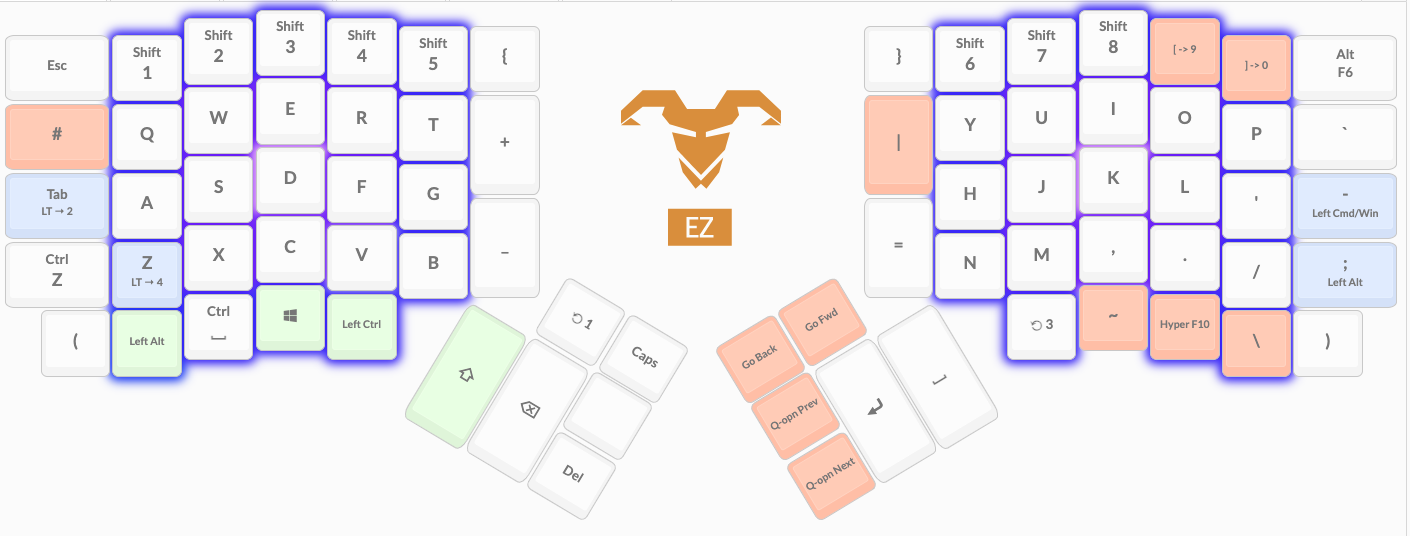
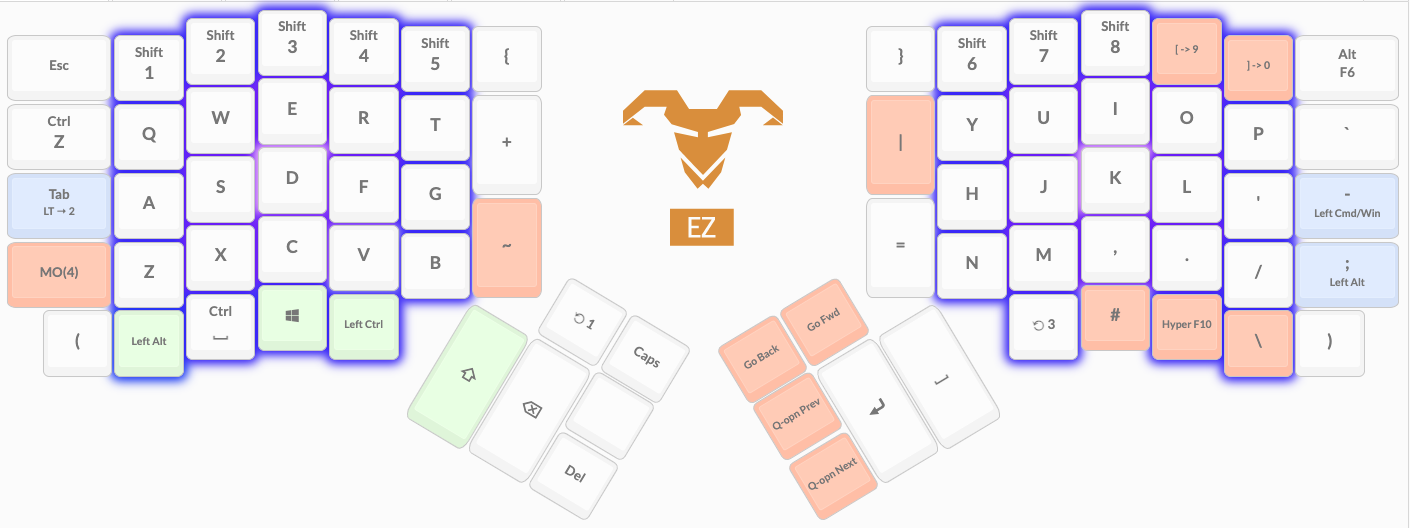
key move so Z isn't a layer switch

diff --git a/keyboards/ergodox_ez/keymaps/stoneman/keymap.c b/keyboards/ergodox_ez/keymaps/stoneman/keymap.c
@@ -45,6 +45,7 @@ enum custom_keycodes {
     EMOJI_WINK,
     EMOJI_WINKTNG,
     MACRO_CHZ,
+    MO_4,
     MUTE_DOTA_TOGGLE,
     VIM_QUIT,
     VIM_SAVE,
@@ -54,10 +55,10 @@ enum custom_keycodes {
 const uint16_t PROGMEM keymaps[][MATRIX_ROWS][MATRIX_COLS] = {
   [0] = LAYOUT_ergodox_pretty(
     KC_ESCAPE,      LSFT(KC_1),     LSFT(KC_2),     LSFT(KC_3),     LSFT(KC_4),     LSFT(KC_5),     KC_LCBR,                                        KC_RCBR,        LSFT(KC_6),     LSFT(KC_7),     LSFT(KC_8),     KC_LBRACKET,    KC_RBRACKET,    MUTE_DOTA_TOGGLE,
-    KC_LALT_HASH,   KC_Q,           KC_W,           KC_E,           KC_R,           KC_T,           KC_PLUS,                                        KC_NONUS_PIPE,  KC_Y,           KC_U,           KC_I,           KC_O,           KC_P,           KC_GRAVE,
+    LCTL(KC_Z),     KC_Q,           KC_W,           KC_E,           KC_R,           KC_T,           KC_PLUS,                                        KC_NONUS_PIPE,  KC_Y,           KC_U,           KC_I,           KC_O,           KC_P,           KC_GRAVE,
     LT(2,KC_TAB),   KC_A,           KC_S,           KC_D,           KC_F,           KC_G,                                                                           KC_H,           KC_J,           KC_K,           KC_L,           KC_QUOTE,       LGUI_T(KC_MINUS),
-    LCTL(KC_Z),     LT(4,KC_Z),     KC_X,           KC_C,           KC_V,           KC_B,           KC_UNDS,                                        KC_EQUAL,       KC_N,           KC_M,           KC_COMMA,       KC_DOT,         KC_SLASH,       LALT_T(KC_SCOLON),
-    KC_LPRN,        KC_LALT,        LCTL(KC_SPACE), KC_LGUI,        KC_LCTRL,                                                                                                       MO(3),          KC_NONUS_TILD,  KC_HYPER_F10,   KC_NONUS_BSLASH,KC_RPRN,
+    MO_4,           KC_Z,           KC_X,           KC_C,           KC_V,           KC_B,           KC_NONUS_TILD,                                  KC_EQUAL,       KC_N,           KC_M,           KC_COMMA,       KC_DOT,         KC_SLASH,       LALT_T(KC_SCOLON),
+    KC_LPRN,        KC_LALT,        LCTL(KC_SPACE), KC_LGUI,        KC_LCTRL,                                                                                                       MO(3),          KC_LALT_HASH,  KC_HYPER_F10,    KC_NONUS_BSLASH,KC_RPRN,
                                                                                                     MO(1),          KC_CAPSLOCK,    LALT(LGUI(LSFT(KC_LEFT))),LALT(LGUI(LSFT(KC_RIGHT))),
                                                                                                                     KC_TRANSPARENT, KC_F16,
                                                                                     KC_LSHIFT,      KC_BSPACE,      KC_DELETE,      KC_F17,         KC_ENTER,       KC_SPACE
@@ -96,7 +97,7 @@ const uint16_t PROGMEM keymaps[][MATRIX_ROWS][MATRIX_COLS] = {
     KC_TRANSPARENT, KC_TRANSPARENT, KC_TRANSPARENT, KC_TRANSPARENT, KC_TRANSPARENT, KC_TRANSPARENT, KC_TRANSPARENT,                                 KC_TRANSPARENT, KC_TRANSPARENT, KC_TRANSPARENT, KC_TRANSPARENT, KC_TRANSPARENT, KC_TRANSPARENT, KC_TRANSPARENT,
     KC_TRANSPARENT, KC_TRANSPARENT, KC_TRANSPARENT, KC_TRANSPARENT, KC_TRANSPARENT, KC_TRANSPARENT, KC_HOME,                                        KC_PGUP,        KC_TRANSPARENT, KC_TRANSPARENT, KC_UP,          KC_TRANSPARENT, KC_TRANSPARENT, KC_TRANSPARENT,
     KC_TRANSPARENT, KC_TRANSPARENT, KC_TRANSPARENT, ALT_SHIFT_GRV,  ALT_GRV,        KC_TRANSPARENT,                                                                 LGUI(KC_LEFT),  KC_LEFT,        KC_DOWN,        KC_RIGHT,       LGUI(KC_RIGHT), KC_TRANSPARENT,
-    KC_TRANSPARENT, KC_TRANSPARENT, MACRO_CHZ,      ALT_SHIFT_TAB,  ALT_TAB,        KC_TRANSPARENT, KC_END,                                         KC_PGDOWN,      KC_TRANSPARENT, KC_TRANSPARENT, KC_TRANSPARENT, KC_TRANSPARENT, KC_TRANSPARENT, KC_TRANSPARENT,
+    KC_TRANSPARENT, MACRO_CHZ,      KC_TRANSPARENT, ALT_SHIFT_TAB,  ALT_TAB,        KC_TRANSPARENT, KC_END,                                         KC_PGDOWN,      KC_TRANSPARENT, KC_TRANSPARENT, KC_TRANSPARENT, KC_TRANSPARENT, KC_TRANSPARENT, KC_TRANSPARENT,
     KC_TRANSPARENT, KC_TRANSPARENT, KC_TRANSPARENT, KC_TRANSPARENT, KC_TRANSPARENT,                                                                                                 KC_LALT,        KC_TRANSPARENT, KC_HYPER_F14,   KC_TRANSPARENT, KC_TRANSPARENT,
                                                                                                     KC_TRANSPARENT, KC_TRANSPARENT, KC_TRANSPARENT, KC_TRANSPARENT,
                                                                                                                     KC_TRANSPARENT, KC_TRANSPARENT,
@@ -287,6 +288,20 @@ bool process_macro_vim_chz(keyrecord_t *record) {
     return true;
 }
 
+bool process_mo_4(keyrecord_t *record) {
+    if (record->event.pressed) {
+        layer_on(4);
+    } else {
+        if (is_alt_tab_active || is_alt_grv_active) {
+            unregister_code(KC_LALT);
+            is_alt_tab_active = false;
+            is_alt_grv_active = false;
+        }
+        layer_off(4);
+    }
+    return true;
+}
+
 // modifiers
 
 bool process_win(keyrecord_t *record) {
@@ -349,17 +364,6 @@ bool process_alt_grv(keyrecord_t *record, bool withShift) {
         unregister_code(KC_GRAVE);
         if (withShift) {
             unregister_code(KC_LSFT);
-        }
-    }
-    return true;
-}
-
-bool process_magic_z(keyrecord_t *record) {
-    if (!record->event.pressed) {
-        if (is_alt_tab_active || is_alt_grv_active) {
-            unregister_code(KC_LALT);
-            is_alt_tab_active = false;
-            is_alt_grv_active = false;
         }
     }
     return true;
@@ -510,6 +514,8 @@ bool process_record_user(uint16_t keycode, keyrecord_t *record) {
             return process_macro_vim_sq(record);
         case MACRO_CHZ:
             return process_macro_vim_chz(record);
+        case MO_4:
+            return process_mo_4(record);
         // modifiers
         case KC_LGUI:
             return process_win(record);
@@ -542,8 +548,6 @@ bool process_record_user(uint16_t keycode, keyrecord_t *record) {
             return process_alt_grv(record, false);
         case ALT_SHIFT_GRV:
             return process_alt_grv(record, true);
-        case LT(4,KC_Z):
-            return process_magic_z(record);
         // emoji
         case EMOJI_ANGRY:
         case EMOJI_COOL:
@@ -650,13 +654,4 @@ layer_state_t layer_state_set_user(layer_state_t state) {
         break;
     }
   return state;
-}
-
-uint16_t get_tapping_term(uint16_t keycode, keyrecord_t *record) {
-    switch (keycode) {
-        case LT(4,KC_Z):
-            return 175;
-        default:
-            return TAPPING_TERM;
-    }
 }
